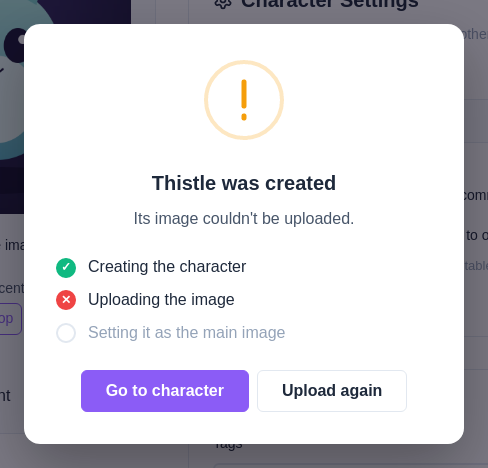
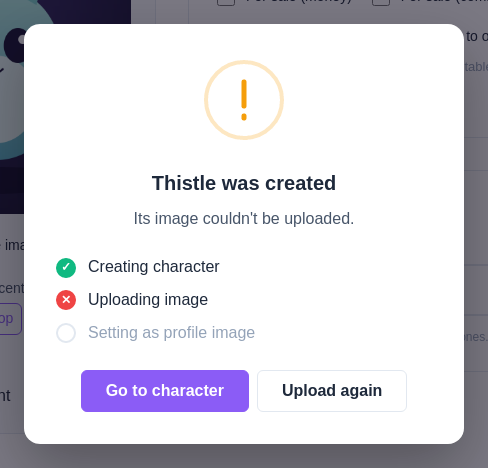
fix(frontend): terser progress step labels

diff --git a/docs/docs/character-creation.html b/docs/docs/character-creation.html
@@ -455,10 +455,10 @@
         <div class="step-content">
           <p>
             <strong>Create Character</strong> opens a dialog that ticks off each
-            step as it happens: making the character, uploading the picture, and
-            setting it as the main image. A large picture can take a moment to
-            upload, so the bar shows how far it has got. The dialog stays in
-            front of the form until everything has finished.
+            step as it happens: creating the character, uploading the picture,
+            and setting it as the profile image. A large picture can take a
+            moment to upload, so the bar shows how far it has got. The dialog
+            stays in front of the form until everything has finished.
           </p>
           <p>
             When it is done, <strong>View character</strong> takes you to it,
@@ -478,7 +478,7 @@
           <div class="screenshot">
             <img
               src="character-create-progress-running.png"
-              alt="The progress dialog reading Creating Sorrel, with Creating the character ticked, Uploading the image at 40% with a bar, and Setting it as the main image still to come"
+              alt="The progress dialog reading Creating Sorrel, with Creating character ticked, Uploading image at 40% with a bar, and Setting as profile image still to come"
             />
             <div class="screenshot-caption">Partway through the upload</div>
           </div>
@@ -566,7 +566,7 @@
               <a href="image-uploads.html">Uploading Images</a>.
             </li>
             <li>
-              If the picture uploaded but could not be made the main image,
+              If the picture uploaded but could not be set as the profile image,
               <strong>Open the image</strong> takes you to it, where
               <strong>Set as Main</strong> finishes the job. Uploading it again
               would only leave a second copy.
@@ -581,7 +581,7 @@
         <div class="screenshot narrow" style="max-width: 520px">
           <img
             src="character-create-image-failed.png"
-            alt="The progress dialog reading Thistle was created, Its image couldn't be uploaded, with Creating the character ticked, Uploading the image crossed, and Go to character and Upload again buttons"
+            alt="The progress dialog reading Thistle was created, Its image couldn't be uploaded, with Creating character ticked, Uploading image crossed, and Go to character and Upload again buttons"
           />
           <div class="screenshot-caption">
             The character is made; the picture can be uploaded again

diff --git a/apps/frontend/src/components/character/__tests__/CreateProgressDialog.test.tsx b/apps/frontend/src/components/character/__tests__/CreateProgressDialog.test.tsx
@@ -53,16 +53,16 @@ describe("CreateProgressDialog", () => {
     });
 
     const dialog = screen.getByRole("dialog", { name: /creating lumen/i });
-    expect(step(/creating the character/i)).toHaveAttribute(
+    expect(step(/^creating character:/i)).toHaveAttribute(
       "data-status",
       "done",
     );
-    expect(step(/uploading the image/i)).toHaveAttribute(
+    expect(step(/^uploading image:/i)).toHaveAttribute(
       "data-status",
       "running",
     );
     expect(within(dialog).getByText("40%")).toBeVisible();
-    expect(step(/setting it as the main image/i)).toHaveAttribute(
+    expect(step(/^setting as profile image:/i)).toHaveAttribute(
       "data-status",
       "todo",
     );
@@ -100,7 +100,7 @@ describe("CreateProgressDialog", () => {
       { isMyo: true },
     );
 
-    expect(step(/redeeming your ticket/i)).toBeVisible();
+    expect(step(/^redeeming ticket:/i)).toBeVisible();
     // What the ticket's toast used to say, and still worth saying.
     expect(screen.getByText(/traits are with staff for review/i)).toBeVisible();
     expect(

diff --git a/apps/frontend/src/components/character/CreateProgressDialog.tsx b/apps/frontend/src/components/character/CreateProgressDialog.tsx
@@ -227,9 +227,9 @@ const ActionButton = styled.button<{ $primary?: boolean }>`
 
 const STEP_LABEL: Record<StepKey, (isMyo: boolean) => string> = {
   create: (isMyo) =>
-    isMyo ? "Redeeming your ticket" : "Creating the character",
-  upload: () => "Uploading the image",
-  setMain: () => "Setting it as the main image",
+    isMyo ? "Redeeming ticket" : "Creating character",
+  upload: () => "Uploading image",
+  setMain: () => "Setting as profile image",
 };
 
 const StatusGlyph: React.FC<{ status: Step["status"] }> = ({ status }) => (
@@ -296,7 +296,7 @@ export const CreateProgressDialog: React.FC<CreateProgressDialogProps> = ({
     detail =
       failedStep === "upload"
         ? "Its image couldn't be uploaded."
-        : "Its image was uploaded but couldn't be made the main image.";
+        : "Its image uploaded, but couldn't be set as its profile image.";
   }
 
   return createPortal(

diff --git a/apps/frontend/CHANGELOG.md b/apps/frontend/CHANGELOG.md
@@ -11,7 +11,7 @@ and this project adheres to [Semantic Versioning](https://semver.org/spec/v2.0.0
 
 - **Image upload on the character create form**, pinned beside the form and attached as the new character's main image; the edit form shows the current main image the same way (#406).
 - **Frame a new character's thumbnail on the create form**; the edit form shows the thumbnail with a link to re-frame it, and the upload page's character picker shows each character's thumbnail (#418).
-- **Creating a character opens a progress dialog** that ticks off creating, uploading (with a percentage) and setting the main image, then offers View character and Create another; failures say which step broke and offer the right next step (#424).
+- **Creating a character opens a progress dialog** that ticks off creating, uploading (with a percentage) and setting the profile image, then offers View character and Create another; failures say which step broke and offer the right next step (#424).
 
 ### Changed
 
